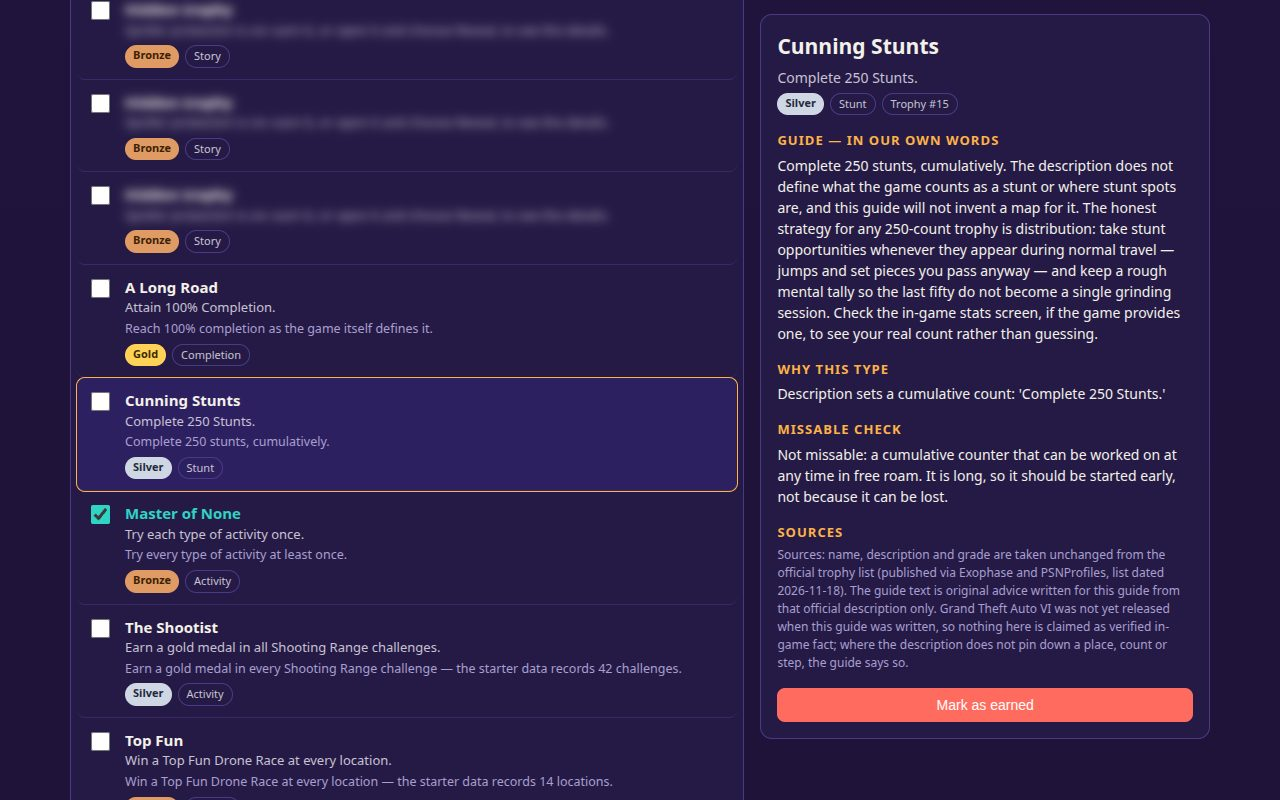
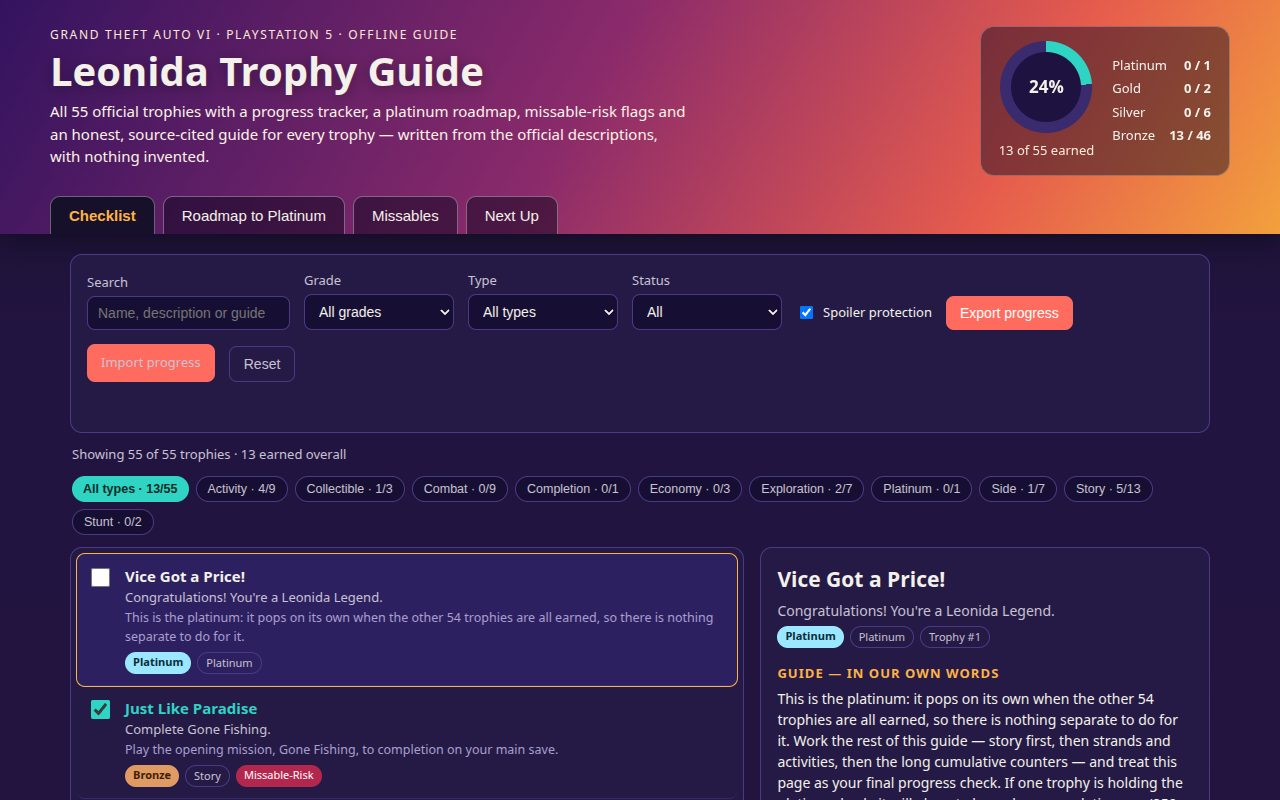
Round 2: roadmap phase in detail pane, per-type progress chips as filters, focus-visible styles, README rewritten for finished app, cover screenshot retaken from top

diff --git a/app/app.js b/app/app.js
@@ -119,6 +119,8 @@ function renderDetail() {
     d.append(h3, p);
   };
   sect('Guide — in our own words', t.guide);
+  const phase = PHASES.find((p) => p.ids.includes(t.id));
+  if (phase) sect('On the roadmap', phase.title + ' — open the Roadmap view to see it in context and track the whole phase at once.');
   sect('Why this type', t.kindBasis);
   if (t.missable) sect('Missable-risk note', t.missableNote);
   else sect('Missable check', t.missableNote);
@@ -285,10 +287,28 @@ for (const k of kinds) {
   const o = document.createElement('option'); o.value = k; o.textContent = k[0].toUpperCase() + k.slice(1);
   $('kindFilter').append(o);
 }
-for (const id of ['search', 'gradeFilter', 'kindFilter', 'statusFilter']) $(id).addEventListener('input', renderList);
+for (const id of ['search', 'gradeFilter', 'kindFilter', 'statusFilter']) $(id).addEventListener('input', () => { renderList(); renderKindLine(); });
 $('spoilerToggle').addEventListener('change', () => { renderList(); renderDetail(); });
 
-function renderAll() { renderProgress(); renderList(); renderDetail(); renderRoadmap(); renderMissables(); renderNext(); }
+function renderKindLine() {
+  const wrap = $('kindLine');
+  wrap.replaceChildren();
+  const all = document.createElement('button');
+  all.type = 'button'; all.className = 'kindchip' + ($('kindFilter').value === 'all' ? ' on' : '');
+  all.textContent = `All types · ${earned.size}/${trophies.length}`;
+  all.addEventListener('click', () => { $('kindFilter').value = 'all'; renderList(); renderKindLine(); });
+  wrap.append(all);
+  for (const k of [...new Set(trophies.map((t) => t.kind))].sort()) {
+    const ts = trophies.filter((t) => t.kind === k);
+    const got = ts.filter((t) => earned.has(t.name)).length;
+    const b = document.createElement('button');
+    b.type = 'button'; b.className = 'kindchip' + ($('kindFilter').value === k ? ' on' : '');
+    b.textContent = `${k[0].toUpperCase() + k.slice(1)} · ${got}/${ts.length}`;
+    b.addEventListener('click', () => { $('kindFilter').value = k; renderList(); renderKindLine(); });
+    wrap.append(b);
+  }
+}
+function renderAll() { renderProgress(); renderList(); renderDetail(); renderRoadmap(); renderMissables(); renderNext(); renderKindLine(); }
 renderAll();
 const startView = location.hash.replace('#', '');
 if (['roadmap', 'missables', 'next'].includes(startView)) showView(startView);

diff --git a/app/style.css b/app/style.css
@@ -34,6 +34,11 @@ button.ghost{background:transparent;border:1px solid var(--line);color:var(--ink
 .importBtn input{display:none}
 .io-msg{width:100%;margin:2px 0 0;font-size:13px;color:var(--teal);min-height:18px}
 .count-line{color:var(--ink-dim);font-size:13px;margin:12px 2px}
+.kindline{display:flex;gap:7px;flex-wrap:wrap;margin:0 2px 12px}
+.kindchip{background:#170f33;border:1px solid var(--line);color:var(--ink-dim);border-radius:999px;padding:5px 11px;font-size:12.5px;cursor:pointer}
+.kindchip:hover{border-color:var(--amber);background:#170f33}
+.kindchip.on{color:#0c2b27;background:var(--teal);border:none;font-weight:700}
+:focus-visible{outline:2px solid var(--amber);outline-offset:2px}
 .layout{display:grid;grid-template-columns:minmax(0,1.5fr) minmax(300px,1fr);gap:16px;align-items:start}
 @media(max-width:860px){.layout{grid-template-columns:1fr}h1{font-size:30px}}
 .list{padding:6px}

diff --git a/app/index.html b/app/index.html
@@ -56,6 +56,7 @@
       <p id="ioMsg" class="io-msg" role="status"></p>
     </div>
     <p class="count-line" id="countLine"></p>
+    <div class="kindline" id="kindLine" aria-label="Progress by trophy type"></div>
     <div class="layout">
       <div class="list card" id="list" role="list"></div>
       <aside class="detail card" id="detail" aria-live="polite"></aside>

diff --git a/README.md b/README.md
@@ -4,15 +4,33 @@
 [![rank](https://make.fun/badge/gta6-trophy-guide-01/kantousazin/leonida-trophy-guide/rank.svg)](https://make.fun/bounty/gta6-trophy-guide-01/leaderboard?utm_source=github&utm_medium=readme&utm_campaign=gta6-trophy-guide-01)
 [![reward](https://make.fun/badge/gta6-trophy-guide-01/kantousazin/leonida-trophy-guide/reward.svg)](https://make.fun/bounty/gta6-trophy-guide-01?utm_source=github&utm_medium=readme&utm_campaign=gta6-trophy-guide-01)
 
-Leonida Trophy Guide — an offline guide and tracker for all 55 PlayStation 5 trophies of Grand Theft Auto VI: a checklist saved in your browser with export and import, filters and a spoiler setting, a roadmap to the platinum, the missable trophies flagged, and a guide to every trophy in our own words with its sources cited.
+**Leonida Trophy Guide** is a complete, fully offline trophy guide and platinum tracker for Grand Theft Auto VI (PlayStation 5), covering all 55 official trophies. It was built for the make.fun bounty `gta6-trophy-guide-01`.
+
+## What the finished app does
+
+- **Checklist & tracker** — all 55 trophies with checkboxes; progress is saved in your browser (localStorage), with an overall progress ring and per-grade counters (platinum / gold / silver / bronze), plus per-type progress chips that double as filters.
+- **Filters & search** — filter by grade, by trophy type (story, side, activity, combat, collectible, stunt, exploration, economy, completion, platinum — each classification carries its reasoning in the data), and by earned status; full-text search across names, descriptions and guides.
+- **Spoiler protection** — on by default: secret trophies and unearned story/side trophies are blurred in the list and pane until you earn them or explicitly reveal them.
+- **A guide for every trophy** — click any trophy for its full guide in our own words: what to do, how the classification was derived, a missable check, and its sources. No invented locations or steps: where the official description does not pin something down, the guide says so.
+- **Roadmap to Platinum** — a five-phase route (arrival → story campaign → strangers & strands → Leonida in full → money, completion & platinum) built only from the official descriptions, with live per-phase progress and trophy chips that jump back into the checklist. Every trophy's detail pane names its roadmap phase.
+- **Missables** — an honesty-first page: the game was unreleased when this guide was written, so instead of fake certainty it flags the four trophies whose official wording reads as a one-time risk (opening mission, a VCIA departure, an Ocean Beach moment, a second-attempt reward), explains the reasoning, and gives save habits that cover them.
+- **Next Up planner** — ranked suggestions computed from your own tracker state: story first, then quick single-action trophies, strand finales, activities, cumulative counters, and the platinum only when it is the last one standing.
+- **Export / import** — progress exports as validated JSON and imports back (starter-format plain arrays are also accepted; unknown entries are reported, not silently kept).
+
+## Data honesty
+
+Trophy names, descriptions and grades in `app/data/trophies.json` are the official list exactly as published (via Exophase and PSNProfiles, list dated 2026-11-18) and are never altered. Everything else — guide texts, type classifications, missable-risk reasoning — is original writing for this guide, derived from those descriptions and cited per trophy in the app itself.
 
 ## Run it
 
 ```sh
-node --experimental-strip-types main.ts
+node --experimental-strip-types main.ts   # builds /output + dossier.json (MAKEFUN_OUTPUT_DIR overrides the target)
+node serve.ts                              # local dev server for app/ on http://localhost:8080
 # or serve the app directly:
 python3 -m http.server --directory app 8000
 ```
+
+The app is plain static files (`app/index.html`, `app/app.js`, `app/style.css`, `app/data/trophies.json`) with no build step and no network access — it loads nothing external. Screenshots in `screenshots/` (defined in `shots.json`) show the checklist, roadmap, missables and Next Up views with a seeded 13/55 playthrough.
 
 ---
 
